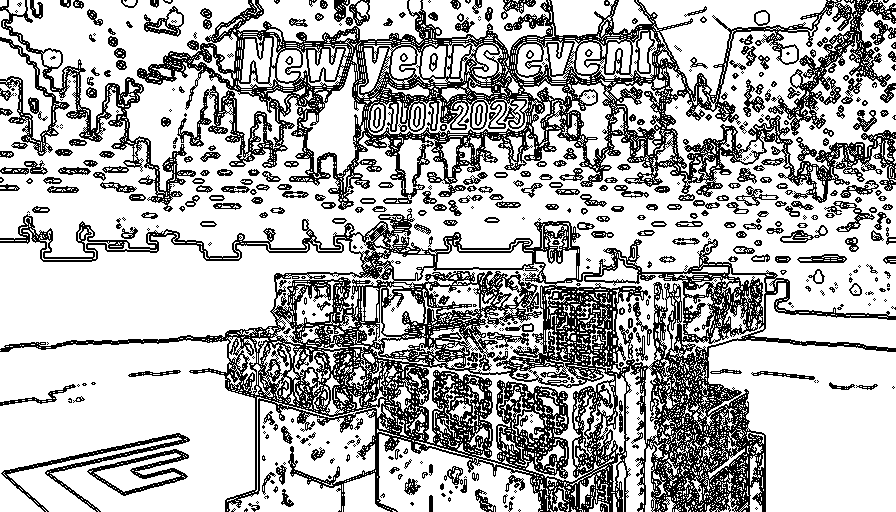
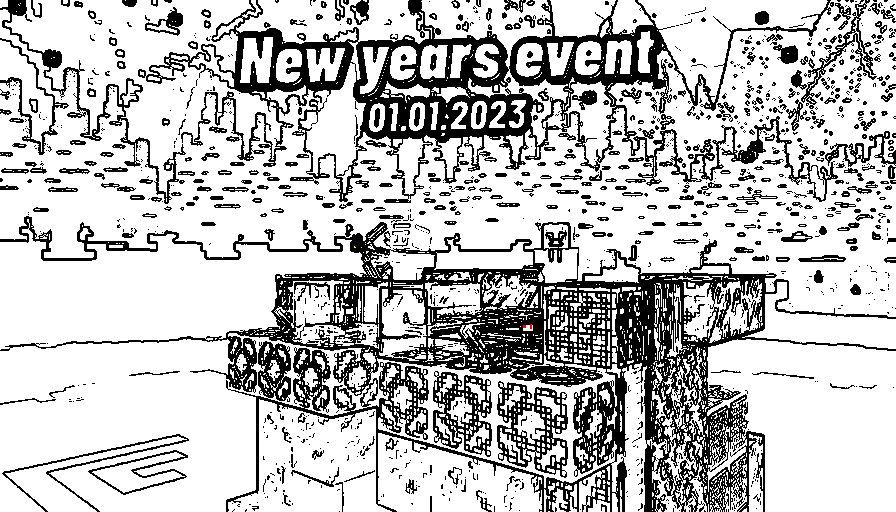
Fix some stuff

diff --git a/src/main/java/de/yoyosource/Main.java b/src/main/java/de/yoyosource/Main.java
@@ -32,16 +32,18 @@ public class Main {
                 .edges(100)
                 .invert()
                 .eval();
-        image.map(raster -> raster.multiply(edges).multiply(lightRaster).clamp(0, 255))
+        image.map(raster -> edges.multiply(255).clamp(0, 255))
                 .write(new File("output-2.png"));
+        image.map(raster -> raster.multiply(edges).multiply(lightRaster).clamp(0, 255))
+                .write(new File("output-3.png"));
 
         Raster edgesOfEdges = image.lightness().edges(100).multiply(255).edges(100).invert().eval();
         Raster copyOfEdgesOfEdges = edgesOfEdges.eval();
         image.map(raster -> copyOfEdgesOfEdges.multiply(255))
-                .write(new File("output-3.png"));
+                .write(new File("output-4.png"));
 
         image.map(raster -> raster.multiply(edgesOfEdges).multiply(lightRaster).clamp(0, 255))
-                .write(new File("output-4.png"));
+                .write(new File("output-5.png"));
     }
 
     /*
